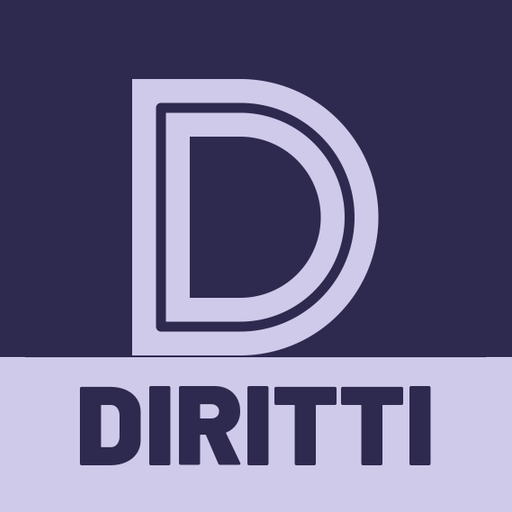
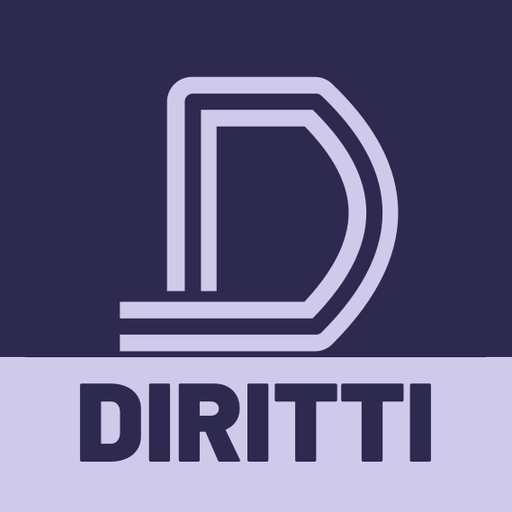
Add files via upload

diff --git a/index.html b/index.html
@@ -7,15 +7,15 @@
 <meta name="color-scheme" content="dark">
 <title>Diritti</title>
 <link rel="manifest" href="manifest.json">
-<link rel="icon" href="icon-192.png?v=1.1.1">
+<link rel="icon" href="icon-192.png?v=1.1.2">
 <link rel="apple-touch-icon" href="icon-192.png">
-<link rel="stylesheet" href="style.css?v=1.1.1">
+<link rel="stylesheet" href="style.css?v=1.1.2">
 <style>html,body{background:#17151F}</style>
 </head>
 <body>
 <header class="barra">
-  <a href="#/" class="logo" aria-label="Diritti, vai alla home"><img src="icon-192.png?v=1.1.1" alt="" width="30" height="30"><span class="nome-app">Diritti</span></a>
-  <span id="versione" class="versione" aria-label="Versione">v1.1.1</span>
+  <a href="#/" class="logo" aria-label="Diritti, vai alla home"><img src="icon-192.png?v=1.1.2" alt="" width="30" height="30"><span class="nome-app">Diritti</span></a>
+  <span id="versione" class="versione" aria-label="Versione">v1.1.2</span>
 </header>
 <main id="contenuto" tabindex="-1"></main>
 <nav class="menu" aria-label="Menu">
@@ -24,7 +24,7 @@
   <button class="btn-piccolo" data-vai="#/profilo">Profilo</button>
   <button class="btn-piccolo" data-vai="#/avviso">Avviso</button>
 </nav>
-<script src="data.js?v=1.1.1"></script>
-<script src="app.js?v=1.1.1"></script>
+<script src="data.js?v=1.1.2"></script>
+<script src="app.js?v=1.1.2"></script>
 </body>
 </html>

diff --git a/app.js b/app.js
@@ -1,5 +1,5 @@
 // Diritti – logica dell'app. Il profilo resta solo sul telefono (localStorage).
-const VERSIONE = 'v1.1.0';
+const VERSIONE = 'v1.1.2';
 const K_PROFILO = 'diritti_profilo';
 const K_AVVISO = 'diritti_avviso';   // { data: ISO, ver: n } – registro dell'accettazione
 const AVVISO_VER = 1;                // aumentarlo se cambia il testo dell'avviso: verrà richiesto di nuovo

diff --git a/sw.js b/sw.js
@@ -1,5 +1,5 @@
 // Diritti – service worker: funziona anche offline. Cambiare CACHE a ogni nuova versione.
-const CACHE = 'diritti-v1.1.1';
+const CACHE = 'diritti-v1.1.2';
 const FILE = ['./', 'index.html', 'style.css', 'app.js', 'data.js', 'manifest.json',
   'icon-192.png', 'icon-512.png', 'icon-maskable-512.png'];
 

diff --git a/Diritti_progetto.md b/Diritti_progetto.md
@@ -3,7 +3,7 @@
 **Nome app:** Diritti (nome breve sotto l'icona) · **Scritta nella fascia dell'icona:** DIRITTI · **Cartella:** C:\Appoggio-Claude\DIRITTI
 
 **Ultimo aggiornamento:** 10 novembre 2026
-**Stato:** v1.1.1 (11/11/2026).
+**Stato:** v1.1.2 (12/11/2026).
 
 ---
 
@@ -276,3 +276,8 @@ SVG del disegno (512×512, prima della fascia):
 
 ### v1.1.1 (11/11/2026)
 - P2 Pensione ciechi assoluti: nota "Importi 2026." → "Importi validi per il 2026."
+
+### v1.1.2 (12/11/2026) – icona disegnata dall'utente
+- L'utente ha modificato `diritti_icona_512.svg` (nella cartella DIRITTI): nuova D a linee, aperta in basso a sinistra, con contorno chiaro #CFC9EA spesso 55 e riga scura interna #2E2A4F spessa 18 (gruppo `g3`). Sfondo, fascia e scritta invariati (due colori, DIRITTI 124 px, base y=489).
+- Le icone PNG (192, 512, maskable al 90%) sono generate direttamente da questo SVG: per cambiare l'icona basta modificare l'SVG e rigenerarle.
+
